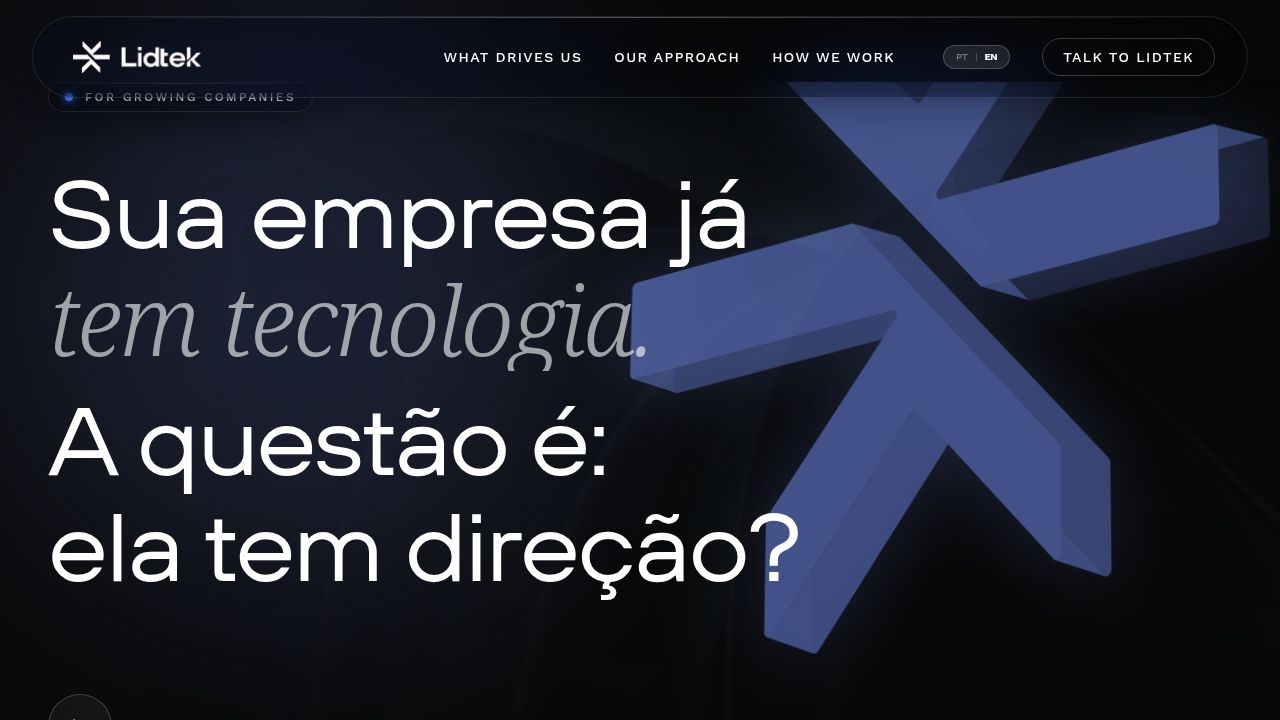
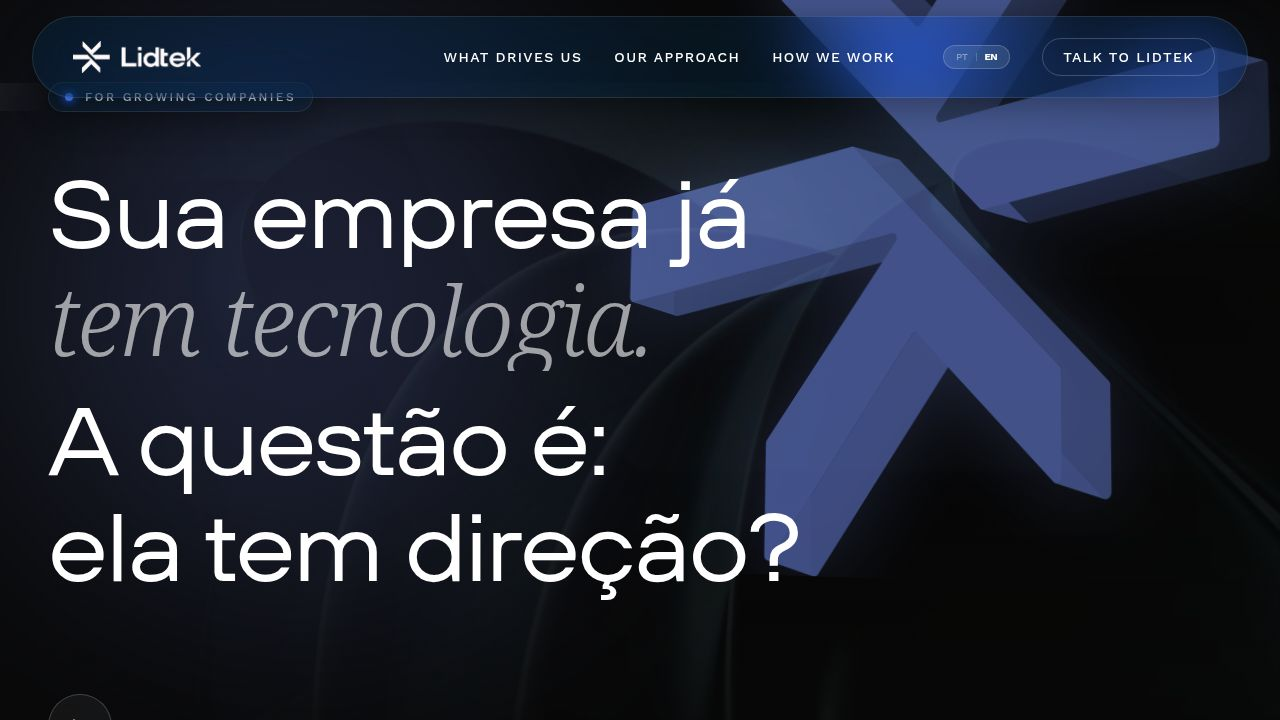
Update brand colors for dark mode and navigation links
Adjusted the dark mode background color to #243A4A and updated link hover states to use the primary color variable in Navbar.tsx and index.css.

Replit-Commit-Author: Agent
Replit-Commit-Session-Id: d3138bbb-e8da-4320-a34a-23950ca028c4
Replit-Commit-Checkpoint-Type: full_checkpoint
Replit-Commit-Event-Id: f931f7a3-d352-4c83-846c-f9c1882ec325
Replit-Commit-Screenshot-Url: https://storage.googleapis.com/screenshot-production-us-central1/1bd49003-f8b5-4081-a1ec-b8d74c53421b/d3138bbb-e8da-4320-a34a-23950ca028c4/ofaWxZx
Replit-Helium-Checkpoint-Created: true

diff --git a/client/src/components/layout/Navbar.tsx b/client/src/components/layout/Navbar.tsx
@@ -60,9 +60,9 @@ export function Navbar() {
       </Link>
       
       <div className="hidden md:flex items-center gap-8 font-medium text-sm z-50">
-        <a href="#manifesto" className="hover:text-[#6580E1] transition-colors uppercase tracking-widest">{t("nav.manifesto")}</a>
-        <a href="#approach" className="hover:text-[#6580E1] transition-colors uppercase tracking-widest">{t("nav.approach")}</a>
-        <a href="#model" className="hover:text-[#6580E1] transition-colors uppercase tracking-widest">{t("nav.model")}</a>
+        <a href="#manifesto" className="hover:text-primary transition-colors uppercase tracking-widest">{t("nav.manifesto")}</a>
+        <a href="#approach" className="hover:text-primary transition-colors uppercase tracking-widest">{t("nav.approach")}</a>
+        <a href="#model" className="hover:text-primary transition-colors uppercase tracking-widest">{t("nav.model")}</a>
         
         <div className={`flex items-center gap-2 border ${borderClass} rounded-full px-3 py-1 ml-4 transition-colors duration-300 ${isDark ? 'bg-white/10' : 'bg-black/5'} backdrop-blur-md`}>
           <button 

diff --git a/client/src/index.css b/client/src/index.css
@@ -209,7 +209,7 @@
   }
 
   .liquid-glass-dark {
-    @apply bg-black/20 backdrop-blur-[40px] saturate-[2.5] border border-white/10 shadow-[0_8px_32px_rgba(0,0,0,0.3)];
+    @apply bg-[#243A4A]/20 backdrop-blur-[40px] saturate-[2.5] border border-white/10 shadow-[0_8px_32px_rgba(0,0,0,0.3)];
     position: relative;
   }
   
